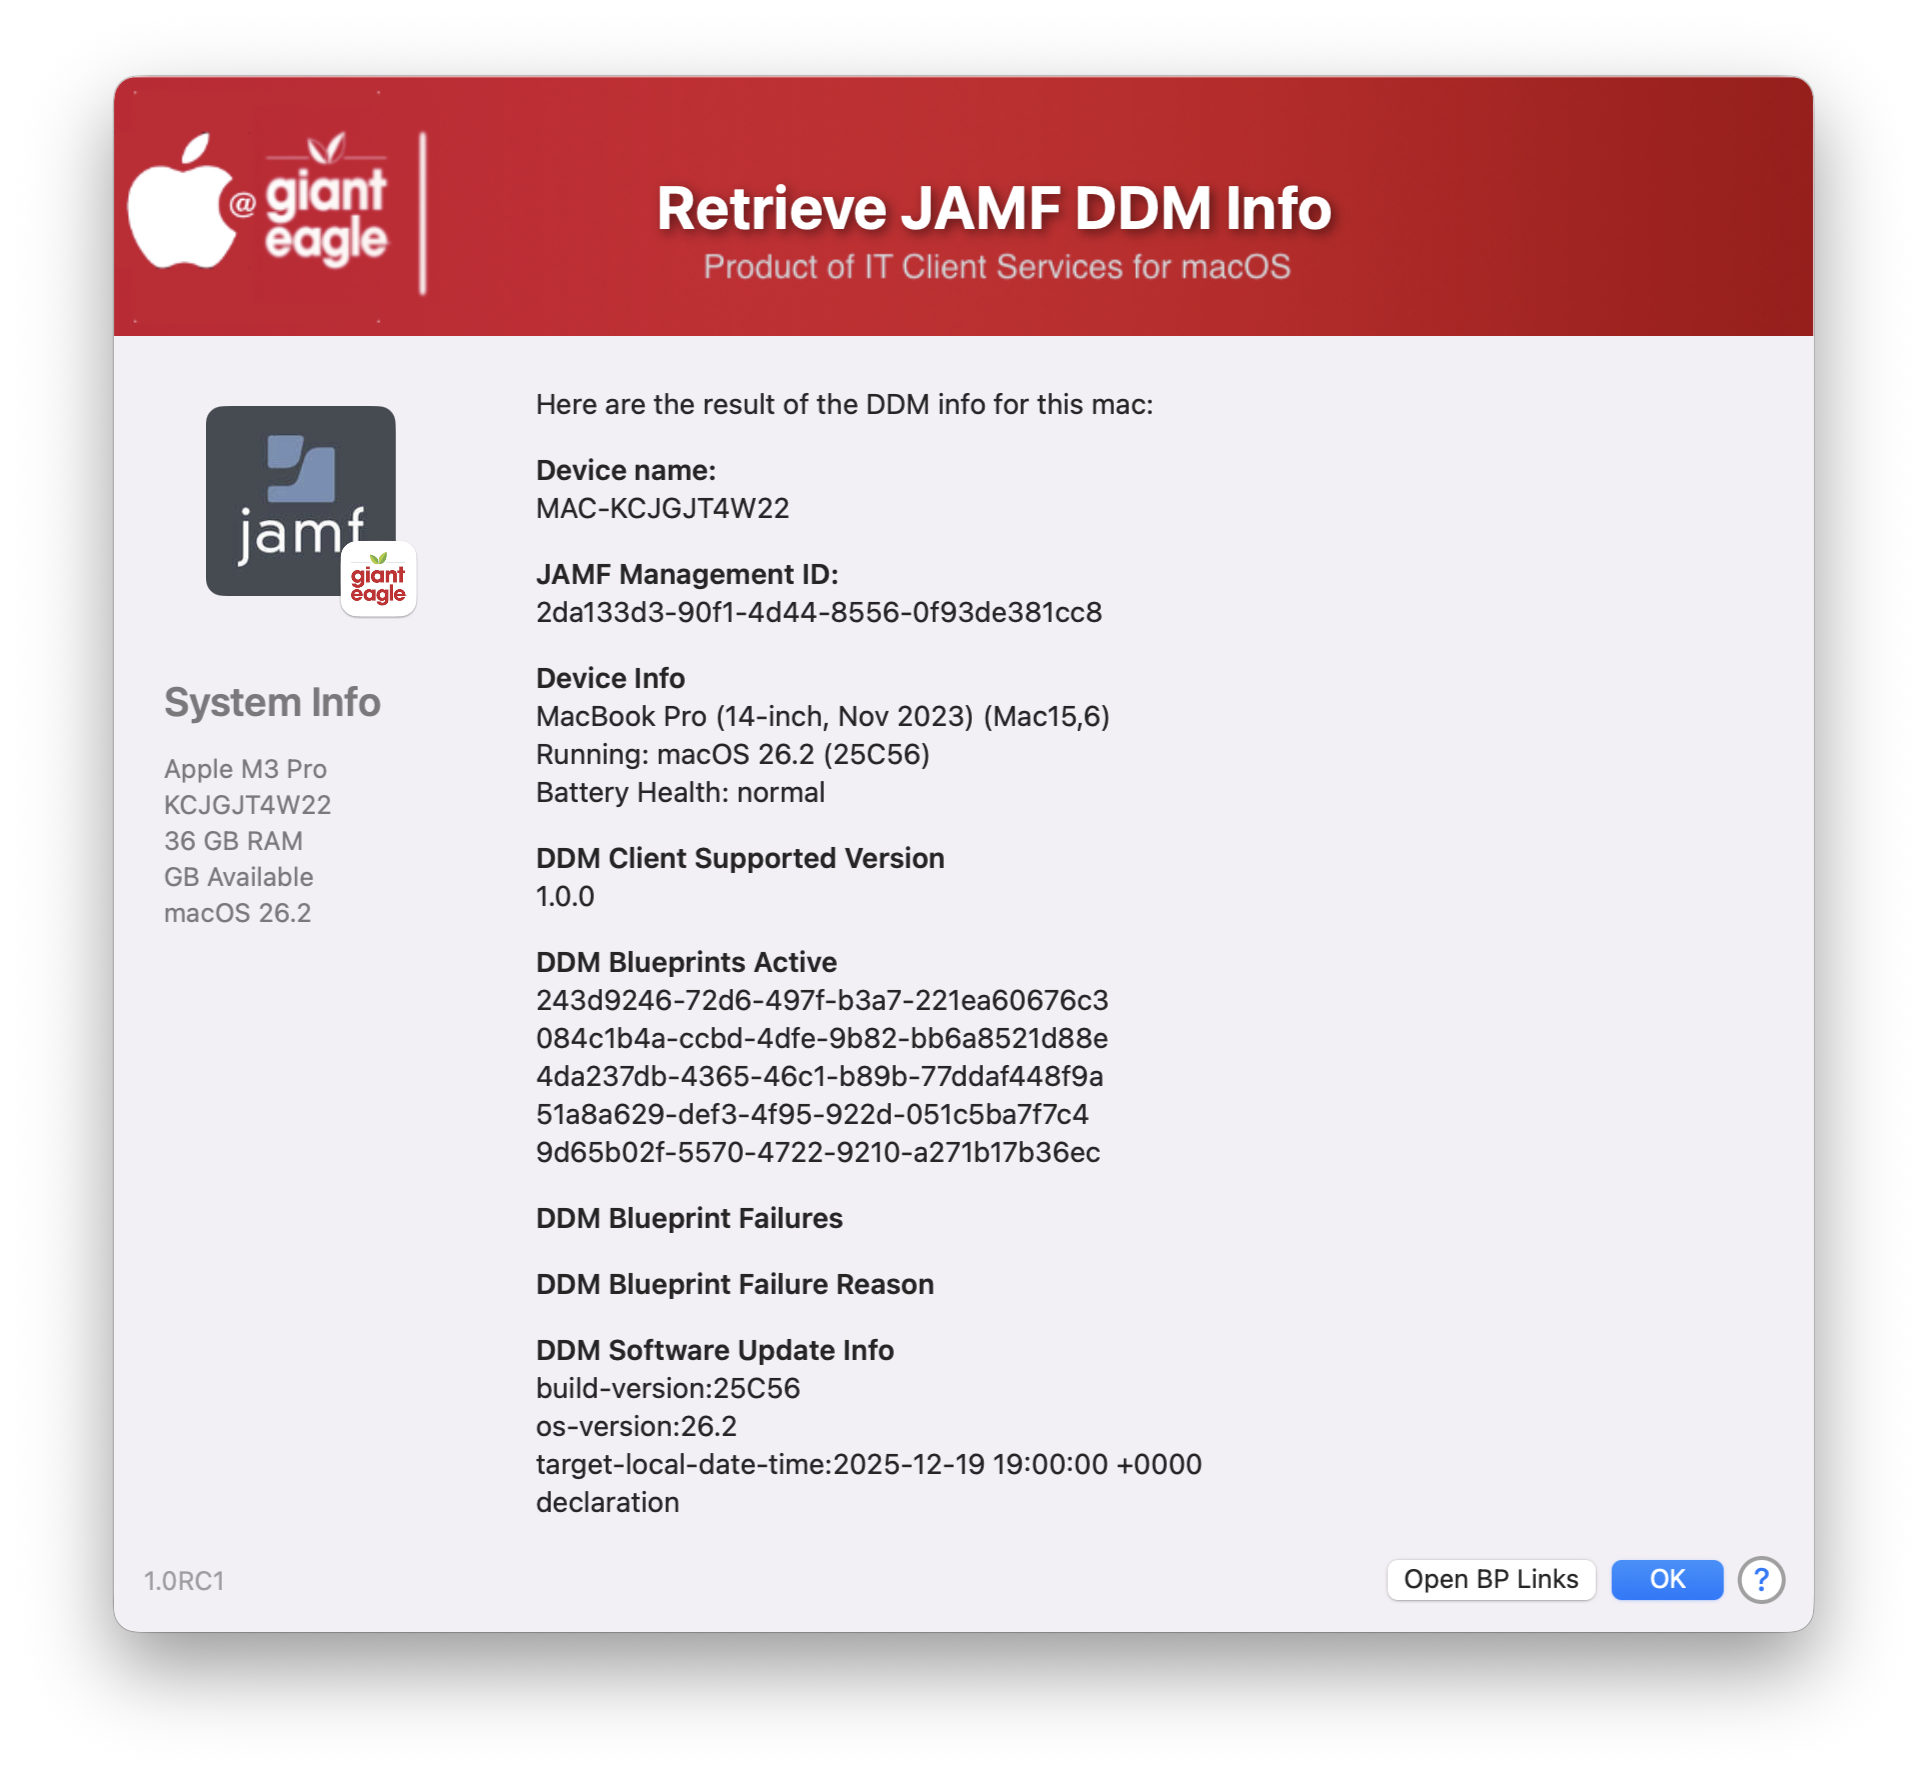
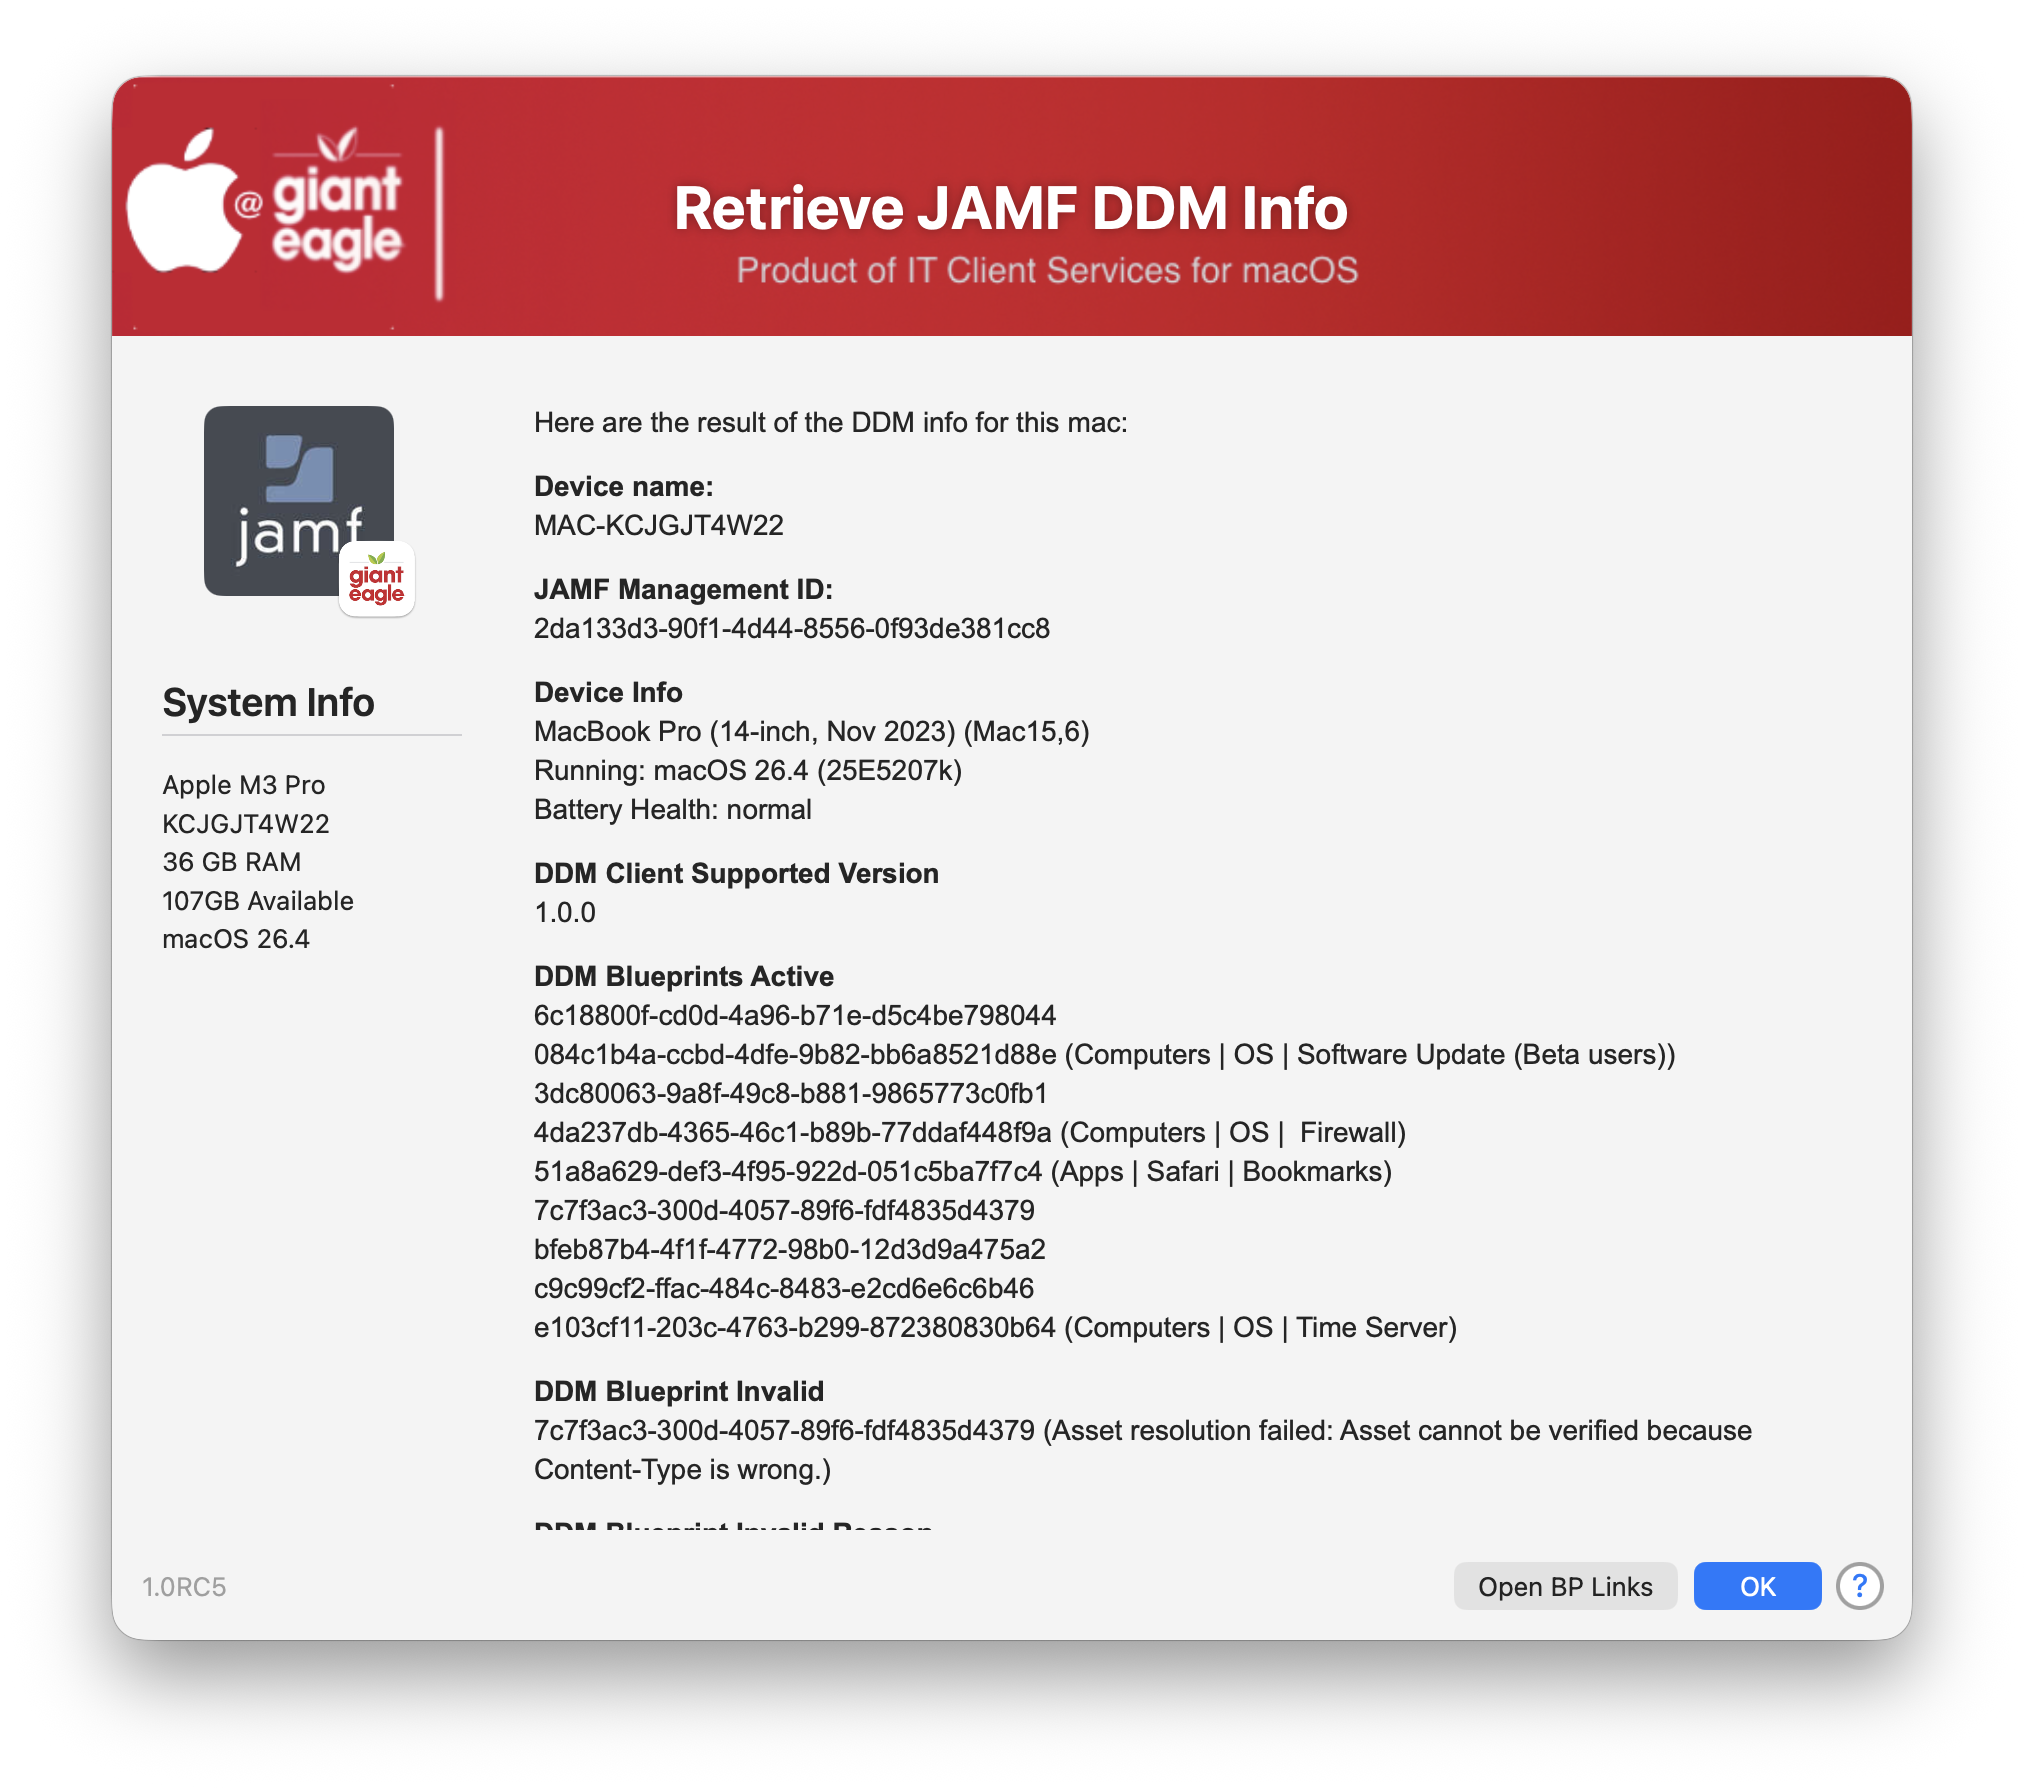
Get more detailed JAMF Blueprint DDM info

diff --git a/JAMFGetDDMInfo/README.md b/JAMFGetDDMInfo/README.md
@@ -47,6 +47,12 @@ JAMF Allows you to "force sync" DDM Commands to the workstation. After viewing t
 
 ![](./JAMFGetDDMInfo-ForceSync.png)
 
+### Populate Cross Reference File ###
+
+JAMF (currently) doesn't allow to retrieve Blueprints by name, so when you pull up information by the blueprint ID, you get the unintelligible long string of numbers and you don't know what the Blueprint name associated to it is.  This option allows you to create a cross-reference file of Blueprint IDs associated to Names.  The name (if found) will be displayed in the Single system scan so you can easily recognized Blueprints that are installed.
+
+![](./JAMFGetDDMInfo-CrossRef.png)
+
 
 ## JAMF API Privileges
 
@@ -104,6 +110,9 @@ If you have any ideas/suggestions on how to improve the DDM reporting ability, p
 | 1.0RC4 | Fixed reporting for blueprint not found when scanning for blueprint IDs
 ||       Add invalid blueprint information to system display and CSV output file
 ||      Significant rework of logic to determine valid, invalid or unknown deployments
+| 1.0RC5 | Fixed issue of failed blueprints not returning correct results when doing a blueprint scan
+||       Added option for cross reference file so you can associate Blueprint IDs to Names and it will show the name results during scans
+
 
 
 ## Gemini results of what can be extracted from JAMF about DDM: ##
